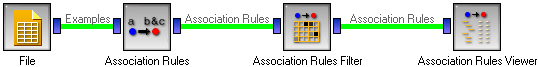
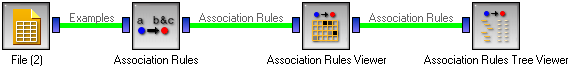
*** empty log message ***

diff --git a/orange/doc/widgets/catalog/Associate/AssociationRulesViewer.htm b/orange/doc/widgets/catalog/Associate/AssociationRulesViewer.htm
@@ -1,6 +1,6 @@
 <html>
 <head>
-<title>Association Rules Viewer</title>
+<title>Association Rules Filter</title>
 <link rel=stylesheet href="../../../style.css" type="text/css" media=screen>
 <link rel=stylesheet href="../../../style-print.css" type="text/css" media=print></link>
 </head>
@@ -10,7 +10,7 @@
 <h1>Association Rules Viewer</h1>
 
 <img class="screenshot" src="../icons/AssociationRulesViewer.png">
-<p>A tree-like association rules viewer</p>
+<p>A widget for printing out the rules and for their manual exploration and selection.</p>
 
 <h2>Channels</h2>
 
@@ -22,29 +22,32 @@
 </dl>
 
 <h3>Outputs</h3>
-<DL class="attributes">
-<DT>None</DT>
+<DL class=attributes>
+<DT>Association Rules</DT>
+<DD>Selected rules</DD>
+
 </dl>
 
 <h2>Description</h2>
 
-<p>This widget is a tree-like association rules viewer.</p>
-
-<P>The widget can be used to find all the rules that include a particular condition on the left-hand side. The below snapshot is made on the Titanic data set, using the filter as shown on the page on the <a href="AssociationRulesFilter.htm">Association Rules Filter</a>.</P>
-
-<img class="screenshot" src="AssociationRulesViewer-closed.png" alt="Association Rules Viewer Widget" border=0>
-
-<P>Say that we are interested in rules regarding the survival of adults. By opening the branch "age=adult", we discover four rules that contain this condition as the sole condition on the left-hand side, while the right-hand sides contain different combinations of sex, status and survival.</P>
-
-<img class="screenshot" src="AssociationRulesViewer-semi-open.png" alt="Association Rules Viewer Widget" border=0>
-
-<P>Besides that, there are rules with (at least) two conditions on the left-hand side, "age=adult" and "sex=male"; to explore these rules, we would need to open the corresponding branch.</P>
-
-<P>Each leaf of the tree corresponds to one particular ordering of the left-hand side conditions in a particular rule. Turned around, this means that each rule appears in many places in the tree. As the completely open tree below shows, the rule <code>age=adult & sex=male -> status=crew"</code> appears in two places (the seventh and the eleventh row).</P>
+<p>This widget can be used for three purposes:
+<ul><li>graphically showing the confidence and support of the induced rules</li>
+<li>selecting a subset of rules based on their confidence and support</li>
+<li>listing the induced rules and the corresponding measures of quality</li>
+</ul>
+</p>
 
 <img class="screenshot" src="AssociationRulesViewer.png" alt="Association Rules Viewer Widget" border=0>
 
-<P>On the left-hand side of the widget, we can choose the measures we want to observe. Let L, R and B be the number of examples that fit the left, the right and both sides of the rule, respectively, and N the total number of examples in the data set. The measures are then defined as follows
+<P>The columns of the grid on the left hand side of the widget represent different supports and the rows represents confidences. The scale is given above the grid: for the case in this snapshot, support goes from 28% to 75% and the confidence ranges from 29% to 100%. Each cell is colored according to the number of rules with that particular support and confidence - the darker the cell, the more rules are inside it.</P>
+
+<P>You can select a part of the grid. In the snapshot we selected the rules with supports between 36% and 66% and confidences from 33% to 82%.</P>
+
+<P>When the widget receives certain data, it shows the area containing all the rules. You can <b>Zoom</b> in to enlarge the selected part, push <b>Show All</b> to see the region with the rules again, or <b>No Zoom</b> to see the region with support and confidence from 0 to 1. <b>Unselect</b> removes the selection.</P>
+
+<P>If nothing is selected, the widget outputs all rules.</P>
+
+<P>On the right hand side of the widget there is a list of the selected rules. The checkboxes above can be used to select the measures of rule quality that we are interested in. Let L, R and B be the number of examples that fit the left, the right and both sides of the rule, respectively, and N the total number of examples in the data set. The measures are then defined as follows
 <ul>
 <li>support = B / N</li>
 <li>confidence = B / L</li>
@@ -55,13 +58,11 @@
 </ul>
 </P>
 
-<P><B>Tree depth</B> sets the depth to which the tree is expanded. If, it is set to, for instance, three, then the leaves corresponding to rules with five conditions will, besides the right-hand side, also contain the two conditions which are not shown in the branches.</P>
-
-<P>With <B>Display whole rules</B> we can decide whether we want the entire rule (including the information that is already contained in the branches, that is, in the path from the root to the rule) reprinted again in the leaf.</P>
+<P>With the buttons below you can <b>Save Rules</b> into a tab-delimited file or <b>Send Rules</b> to the widget connected to the output. The latter is only enabled if <b>Send rules automatically</b> is unchecked. When it is checked, the rules are put on the widget's output automatically at every selection change.</P>
 
 <h2>Examples</h2>
 
-<P>This widget is typically used with the <a href="AssociationRules.htm">Association Rules</a> and possibly <a href="AssociationRulesFilter.htm">Association Rules Filter</a>. The typical schema is shown below.</P>
+<P>This widget is used with the <a href="AssociationRules.htm">Association Rules</a> and maybe with a tree-like <a href="AssociationRulesTreeViewer.htm">Association Rules Tree Viewer</a>. The typical schema is shown below.</P>
 
 <img class="screenshot" src="AssociationRules-Schema.png" alt="Association Rules" border=0>
 

diff --git a/orange/doc/widgets/catalog/Associate/AssociationRulesTreeViewer.htm b/orange/doc/widgets/catalog/Associate/AssociationRulesTreeViewer.htm
@@ -1,0 +1,69 @@
+<html>
+<head>
+<title>Association Rules Viewer</title>
+<link rel=stylesheet href="../../../style.css" type="text/css" media=screen>
+<link rel=stylesheet href="../../../style-print.css" type="text/css" media=print></link>
+</head>
+
+<body>
+
+<h1>Association Rules Tree Viewer</h1>
+
+<img class="screenshot" src="../icons/AssociationRulesTreeViewer.png">
+<p>A tree-like association rules viewer</p>
+
+<h2>Channels</h2>
+
+<h3>Inputs</h3>
+
+<DL class=attributes>
+<DT>Association Rules</DT>
+<DD>A list of rules</DD>
+</dl>
+
+<h3>Outputs</h3>
+<DL class="attributes">
+<DT>None</DT>
+</dl>
+
+<h2>Description</h2>
+
+<p>This widget is a tree-like association rules viewer.</p>
+
+<P>The widget can be used to find all the rules that include a particular condition on the left-hand side. The below snapshot is made on the Titanic data set, using the filter as shown on the page on the <a href="AssociationRulesViewer.htm">Association Rules Filter</a>.</P>
+
+<img class="screenshot" src="AssociationRulesTreeViewer-closed.png" alt="Association Rules Tree Viewer Widget" border=0>
+
+<P>Say that we are interested in rules regarding the survival of adults. By opening the branch "age=adult", we discover four rules that contain this condition as the sole condition on the left-hand side, while the right-hand sides contain different combinations of sex, status and survival.</P>
+
+<img class="screenshot" src="AssociationRulesTreeViewer-semi-open.png" alt="Association Rules Tree Viewer Widget" border=0>
+
+<P>Besides that, there are rules with (at least) two conditions on the left-hand side, "age=adult" and "sex=male"; to explore these rules, we would need to open the corresponding branch.</P>
+
+<P>Each leaf of the tree corresponds to one particular ordering of the left-hand side conditions in a particular rule. Turned around, this means that each rule appears in many places in the tree. As the completely open tree below shows, the rule <code>age=adult & sex=male -> status=crew"</code> appears in two places (the seventh and the eleventh row).</P>
+
+<img class="screenshot" src="AssociationRulesTreeViewer.png" alt="Association Rules Tree Viewer Widget" border=0>
+
+<P>On the left-hand side of the widget, we can choose the measures we want to observe. Let L, R and B be the number of examples that fit the left, the right and both sides of the rule, respectively, and N the total number of examples in the data set. The measures are then defined as follows
+<ul>
+<li>support = B / N</li>
+<li>confidence = B / L</li>
+<li>coverage = L / N</li>
+<li>strength = R / L</li>
+<li>lift = N * B / (L * R)</li>
+<li>leverage = N * B - L * R</li>
+</ul>
+</P>
+
+<P><B>Tree depth</B> sets the depth to which the tree is expanded. If, it is set to, for instance, three, then the leaves corresponding to rules with five conditions will, besides the right-hand side, also contain the two conditions which are not shown in the branches.</P>
+
+<P>With <B>Display whole rules</B> we can decide whether we want the entire rule (including the information that is already contained in the branches, that is, in the path from the root to the rule) reprinted again in the leaf.</P>
+
+<h2>Examples</h2>
+
+<P>This widget is typically used with the <a href="AssociationRules.htm">Association Rules</a> and possibly <a href="AssociationRulesViewer.htm">Association Rules Filter</a>. A typical schema is shown below.</P>
+
+<img class="screenshot" src="AssociationRules-Schema.png" alt="Association Rules" border=0>
+
+</body>
+</html>

diff --git a/orange/doc/widgets/catalog/Associate/AssociationRules.htm b/orange/doc/widgets/catalog/Associate/AssociationRules.htm
@@ -40,7 +40,7 @@
 
 <P>Next, you can decide whether to <b>Induce classification rules</b> or ordinary association rules. The former always have the class attribute (and nothing else) on the right-hand side. You can combine this with any of the above two algorithms.</P>
 
-<P>As for prunning, you can specify the <b>Minimal support</b> and <b>Minimal confidence</b>, where support is percentage of the entire data set covered by the (entire) rule and the confidence is the proportion of the number of examples which fit the right side among those that fit the left side. The running time depends primarily on the support.</P>
+<P>As for pruning, you can specify the <b>Minimal support</b> and <b>Minimal confidence</b>, where support is percentage of the entire data set covered by the (entire) rule and the confidence is the proportion of the number of examples which fit the right side among those that fit the left side. The running time depends primarily on the support.</P>
 
 <P>If support is set too low, the algorithm may find too many rules and eventually run out of memory. For this reason the number of rules is by default limited to 10000. You can increase the limit at a risk of running out of memory.</P>
 
@@ -51,7 +51,7 @@
 
 <h2>Examples</h2>
 
-<P>This widget is typically used with the <a href="AssociationRulesFilter.htm">Association Rules Filter</a> and/or <a href="AssociationRulesViewer.htm">Association Rules Viewer</a>. One possible schema is shown below.</P>
+<P>This widget is typically used with the <a href="AssociationRulesViewer.htm">Association Rules Viewer</a> and/or <a href="AssociationRulesTreeViewer.htm">Association Rules Tree Viewer</a>. One possible schema is shown below.</P>
 
 <img class="screenshot" src="AssociationRules-Schema.png" alt="Association Rules" border=0>
 
